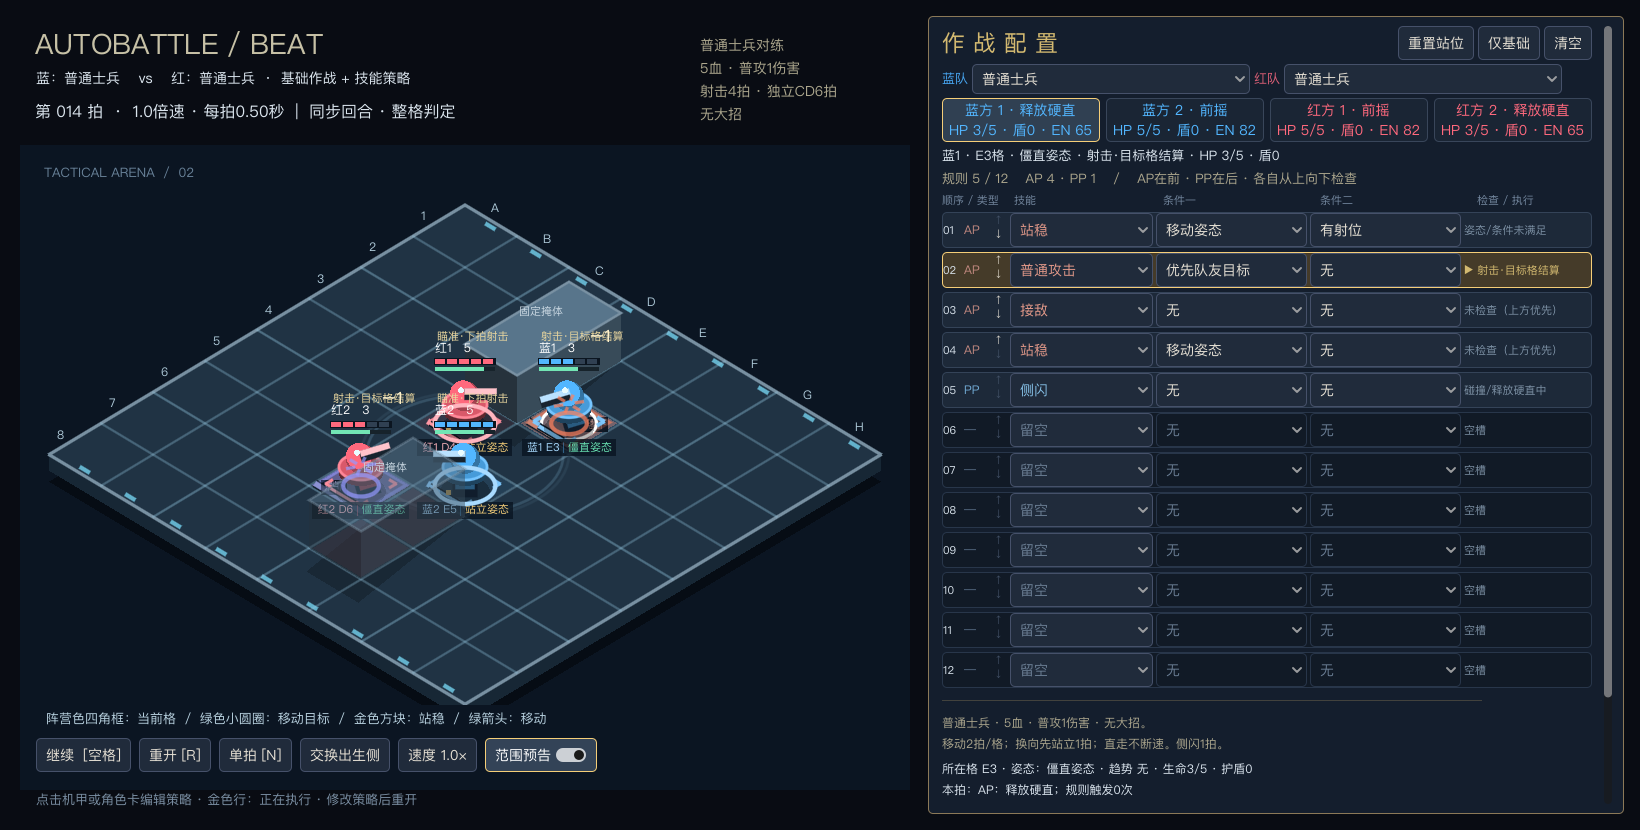
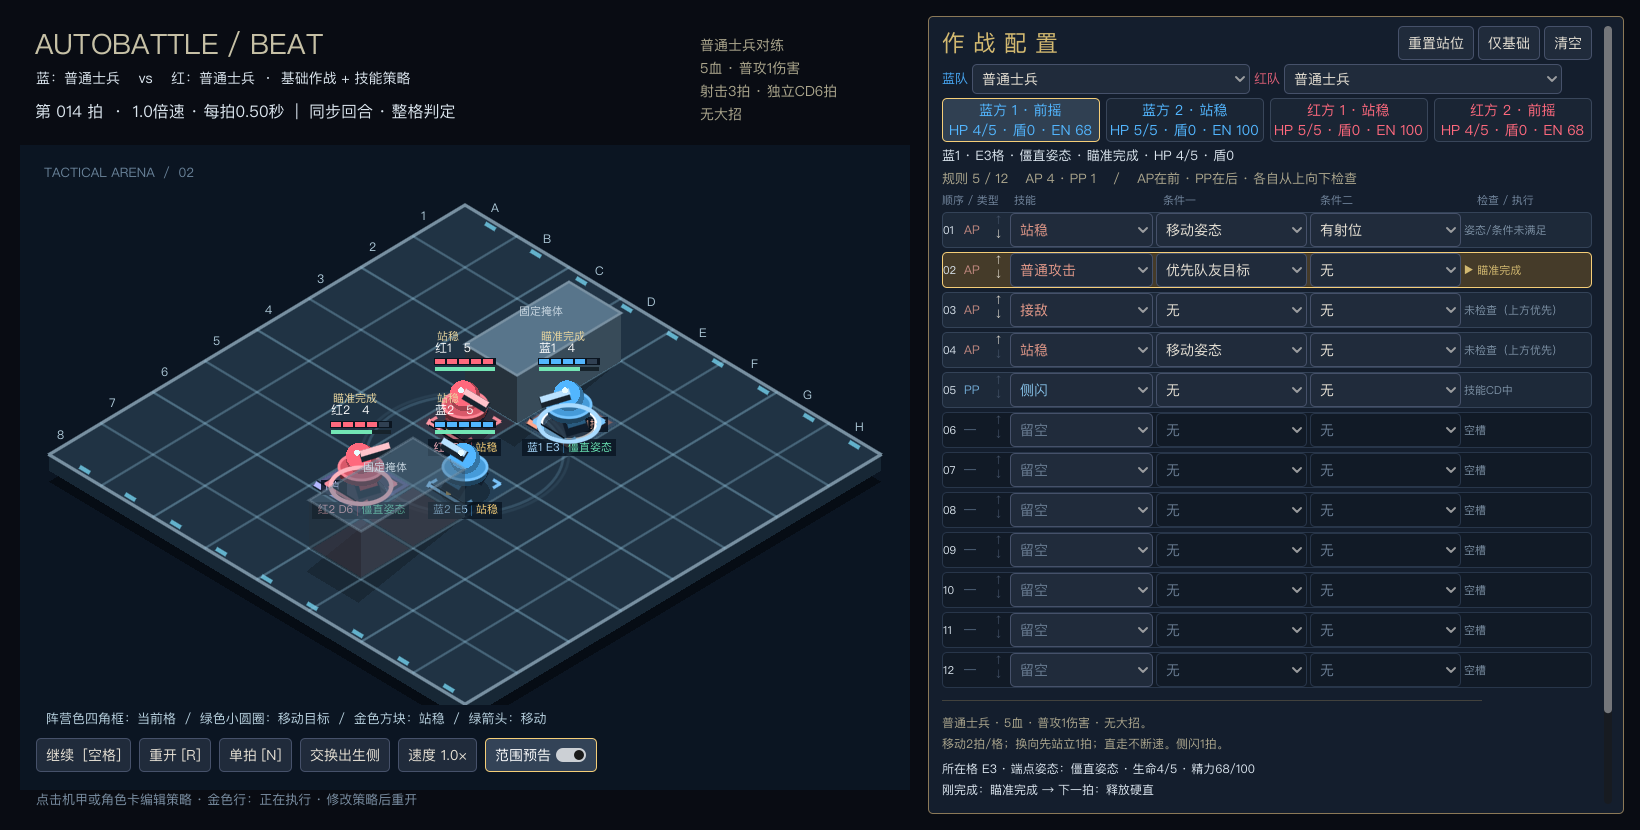
按交点顺序结算并规划下一拍，普攻恢复三拍动作

diff --git a/docs/beat-combat.md b/docs/beat-combat.md
@@ -42,27 +42,40 @@
 
 AP按优先级选中一次动作，选中拍执行其第一拍，随后完成该动作。每个bot每拍最多选中一条AP或PP；动作结束拍不会再起手另一动作。
 
-### 动作与姿态分离
+### 线段与交点
 
-动作表示该拍做什么，姿态表示准备程度：站立姿态可以起手普攻或移动；动作姿态尚未站立；僵直姿态必须完成当前强制阶段。姿态不意味着可以同时执行两个动作。
+一拍是有时长的动作线段，姿态在交点上约束下一段动作。交点没有额外时间：所有移动先完成，随后按新格子判定攻击、统一扣血与处理死亡，再发布新姿态，最后用同一份结算后快照按优先级决定下一拍。治疗/护盾等本段支援在伤害结算前生效。
 
-普通射击采用第一方案：第1拍站立姿态执行瞄准，第2拍僵直姿态执行击发，第3、4拍动作姿态执行恢复，第4拍拍末进入站立姿态。显示当前拍的动作和姿态；引擎另存下一拍待执行阶段，PP许可按待执行阶段检查，因此不能利用上一拍瞄准的显示取消下一拍击发。
+引擎将下一拍的移动提案、攻击与恢复转换保存为独立计划，不提前改变已结算的格子、血量、姿态和触发统计。`tick()`完成一段，依次执行格子更新、攻击结算、姿态更新、下一拍决策；只有初始布阵或显式修改输入时，才在起点生成或重建计划。双方同拍完成的攻击全部参与结算，可以同时倒下；死亡后不再选择下一动作。
 
-瞄准及后摇允许侧闪PP接管，击发不允许；其它PP沿用各自插入限制。正常两拍后摇已包含恢复站立，不重复收费。侧闪取消后摇不退款、不撤销命中、不清独立CD；侧闪后仍是动作姿态，要再普攻必须单独执行1拍进入站立。PP只在拍边界检查，不改写已结算的一拍；普通瞄准仅1拍，不额外添加半拍取消窗口。
+普通射击：时间0站立→瞄准1拍→时间1僵直→击发1拍→时间2动作姿态→后摇1拍→时间3站立。时间2先移动后判定射击；画面分别显示交点姿态、刚完成动作和下一拍计划。普通移动2拍一格，逻辑格仅在第二段结束更新；侧闪1拍一格，结束交点先跨格再判定攻击。
+
+被瞄准者在时间1检查PP，若自身不处于释放/碰撞硬直，可用侧闪替代自己的下一段动作，在时间2跨格躲开该枪；不是取消射击者的后摇。交点刚产生的受击事件只能影响下一段，不能追溯取消本交点的命中。
+
+侧闪取消自己的后摇不退款、不撤销命中、不清独立CD；侧闪后仍未站立，要再普攻须先执行1拍进入站立。正常后摇已包含恢复站立，不额外收费。其它技能的多拍蓄力、连发及后摇长度不变。
+
+```text
+时间    0              1              2              3
+        ●──────────────●──────────────●──────────────●
+姿态   站立           僵直           动作           站立
+动作          瞄准           击发           后摇
+                                     ↑
+                           先更新格子，再判定命中
+```
 
 ### 普通士兵射击
 
 - 射击必须在站立完成后起手，属于规则引擎的硬性要求。即使删除显式站稳规则，移动姿态下选择普攻也先花1拍“射击站立”；这一拍不扣精力、不开始CD、不出现瞄准预警。
-- 已站立时：第1拍瞄准并锁定格子、显示预警；第2拍按同步移动后的所在格结算；第3、4拍后摇，第4拍拍末恢复站立，不能在后摇结束拍再次起手。
-- 非站立时先站立1拍，因此总共5拍；重复射击不重复站立，每次动作占4拍。
-- 取消所有技能的公共CD，不在动作后额外插入空白拍。普攻独立CD仍为6拍，从第2拍实际开火开始，与后摇重叠。资源足够、目标合法时，下一次第8拍瞄准、第9拍开火；其它已就绪技能可在第4拍后摇结束后的第5拍起手。
+- 已站立时：第1拍瞄准并锁定格子、显示预警；第2拍按同步移动后的所在格结算；第3拍后摇，拍末恢复站立，不能在后摇结束拍再次起手。
+- 非站立时先站立1拍，因此总共4拍；重复射击不重复站立，每次动作占3拍。
+- 取消所有技能的公共CD，不在动作后额外插入空白拍。普攻独立CD仍为6拍，从第2拍实际开火开始，与后摇重叠。资源足够、目标合法时，时间2开火后至时间8独立CD归零，下一次瞄准占8→9、击发占9→10；其它已就绪技能可在时间3后摇结束后立即开始，占3→4。
 - CD未就绪时可以执行其它合法规则，但不能跳过站立要求开枪；精力不足也不能射击。
 - 普攻不再追加第3拍飞行命中；画面在第2拍内演出短弹道，随后显示落点闪光。动画不修改结算格或命中拍。
 
 
 | 攻击 | 前摇 | 释放硬直 | 后摇 | 生效方式 |
 | --- | --- | --- | --- | --- |
-| 普通攻击 | 1拍，锁格预警 | 1拍，当拍结算 | 2拍，结束恢复站立 | 第2拍按锁定格结算，无额外飞行拍 |
+| 普通攻击 | 1拍，锁格预警 | 1拍，当拍结算 | 1拍，结束恢复站立 | 第2拍按锁定格结算，无额外飞行拍 |
 | 标记弹、火矢等低阶单发 | 1拍 | 1拍 | 1拍，强射2拍 | 释放后1拍命中锁定格 |
 | 风刃、追风 | 1拍 | 2拍，逐拍释放 | 1拍 | 每发延迟1拍 |
 | 疾风连刃 | 1拍 | 3拍，逐拍释放 | 1拍 | 每发延迟1拍 |
@@ -83,14 +96,14 @@ AP按优先级选中一次动作，选中拍执行其第一拍，随后完成该
 
 前摇取消或施法者死亡会撤去尚未释放的预警；已发出的攻击仍保留。暂停冻结进度，倍速随观看速度缩放；单拍播放结束、下一拍尚未结算时保留末端小缺口，整框亮起只对应实际生效。关闭“范围预告”隐藏预警，不隐藏真实落下特效。预警数据由 `beat_telegraph.gd` 从规则快照推导，连续填充不改变命中拍或范围。
 
-PP侧闪在每拍决策前检查：
+PP侧闪在交点结算完成后、选择下一段动作时检查：
 
 - 前摇：取消攻击，退还本次精力，再支付20精力侧闪。
 - 释放硬直：不能插入，连发整段都属于硬直。
 - 后摇：取消剩余后摇，不退款，原攻击CD及已发出的攻击保留。
 - 侧闪用1拍进入安全相邻格，结束后保留移动趋势，下一拍重新决策；不获得无敌帧。
 - 没有威胁、安全格或资源时不取消。退款可用于支付侧闪。
-- 其它PP在动作空档执行，支援有1拍后摇，攻击型PP使用相同攻击阶段。协同追击只响应上一拍的队友命中，不对同一事件排队重试。
+- 其它PP在动作空档执行，支援有1拍后摇，攻击型PP使用相同攻击阶段。协同追击只响应刚结束那一段的队友命中，不对同一事件排队重试。
 
 仅保留独立技能CD，从实际释放开始计时；原秒数向上取整为整拍。动作间隔由各自动作的后摇保证，没有公共CD。技能起手时扣精力，等待和普通移动每拍恢复3。减速期间普通跨格额外等待1拍，侧闪不受影响。
 

diff --git a/README.md b/README.md
@@ -2,9 +2,9 @@
 
 ## 当前实验：8×8 节拍战斗
 
-所有棋子同步回合制：一拍是一回合，动作可占多拍，画面连续演出。
+所有棋子同步回合制：一拍是有时长的动作线段，姿态位于线段交点。交点按“更新格子→攻击结算→更新姿态→决定下一拍”处理，没有额外间隔；下一拍计划不会提前扣血或跨格。
 
-默认双方为普通士兵：5血、普攻1伤害，只有站立、普攻、接敌和PP侧闪，无大招。普攻必须先站立，按瞄准1拍→命中1拍→后摇2拍执行，结束恢复站立；瞄准为站立姿态、击发为不可取消的僵直姿态、后摇为可被侧闪取消的动作姿态；侧闪取消后需重新站立才能射击。取消公共CD，普攻独立CD6拍保留，从开火起算并与后摇重叠。同向直走四格后站立共9拍；四段折线各走一格再站立共12拍。旧魔法预设可从下拉菜单切换。
+默认双方为普通士兵：5血、普攻1伤害，只有站立、普攻、接敌和PP侧闪，无大招。普攻必须先站立，按瞄准1拍→命中1拍→后摇1拍执行，结束恢复站立；瞄准为站立姿态、击发为不可取消的僵直姿态、后摇为可被侧闪取消的动作姿态；侧闪取消后需重新站立才能射击。取消公共CD，普攻独立CD6拍保留，从开火起算并与后摇重叠。同向直走四格后站立共9拍；四段折线各走一格再站立共12拍。旧魔法预设可从下拉菜单切换。
 
 分支 `beat-grid-combat` 默认运行 `beat_arena.tscn`：普通移动2拍一格，移动硬直期间只能由PP侧闪取消；侧闪1拍一格。同向续走无需站立，换向前自动站立1拍；最后停步站立也耗1拍；减速沿用额外1拍的效果。高级技能需站稳，技能范围按整数格锁定，碰撞拍统一结算并在下一拍弹回。默认新基准1倍速每拍0.5秒，0.5倍每拍1秒，2倍每拍0.25秒；N单拍、Shift+N四拍。
 
